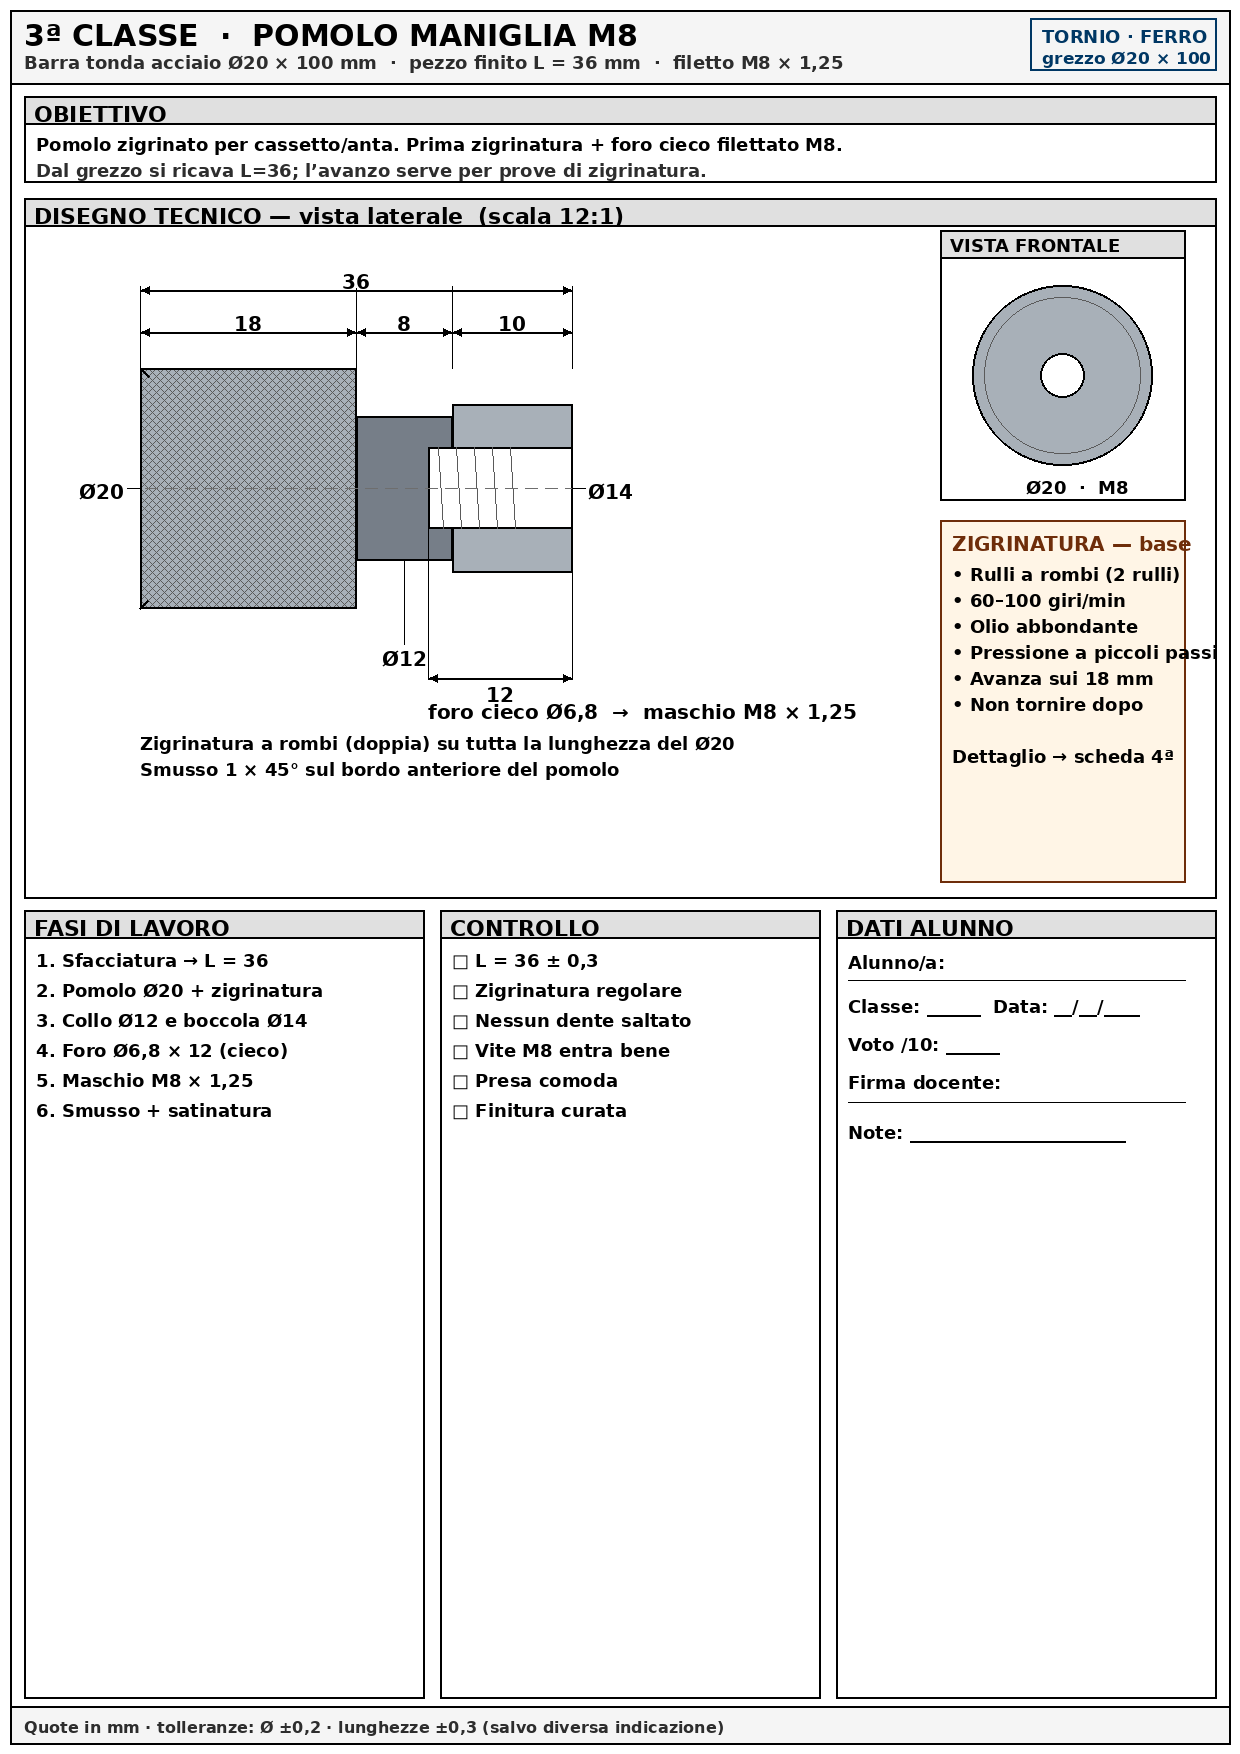
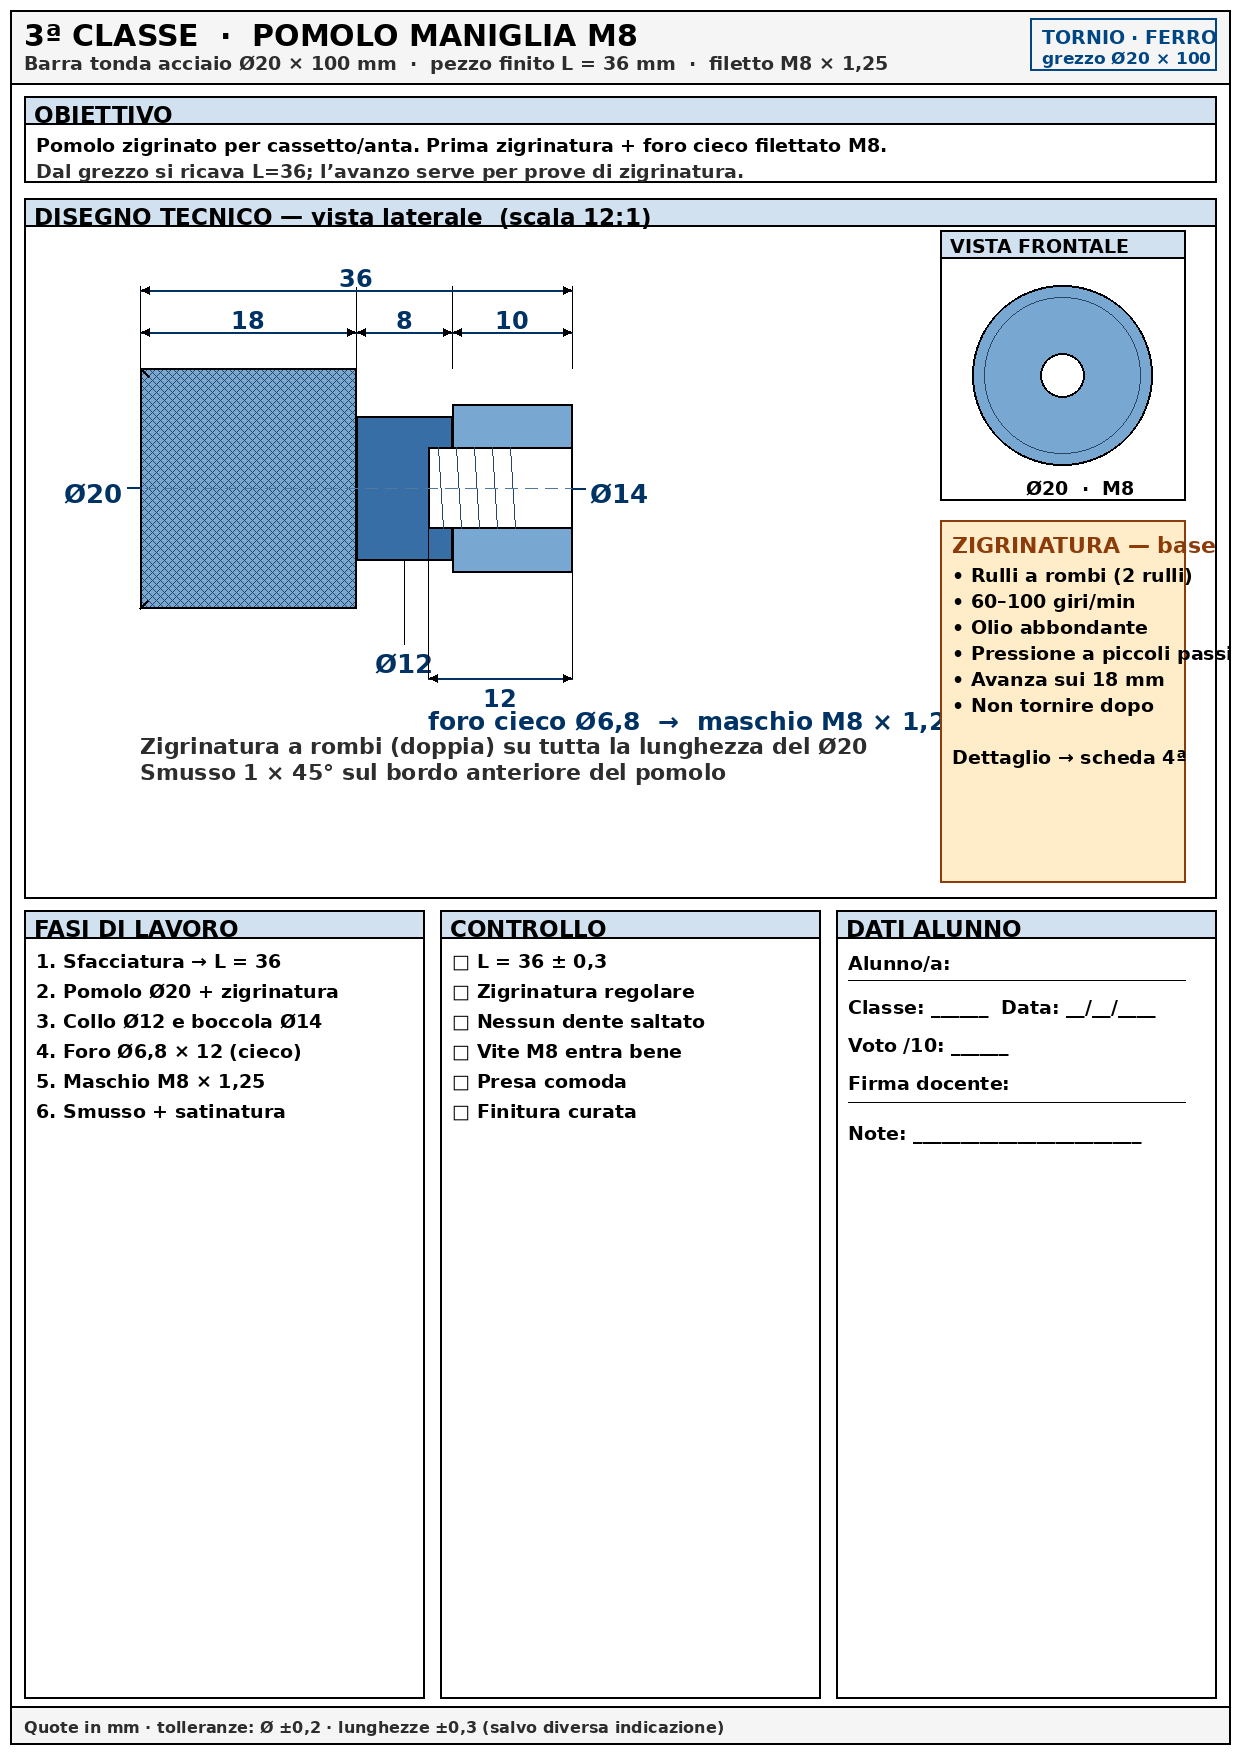
Schede ferro a colori, quote più grandi, dettaglio gancio rifatto.
Capsula + uncino sotto il bordo; pezzi in azzurro/arancio; diciture Ø
e lunghezze con font maggiorato.

diff --git a/progetti-ferro-gallery/generate_ferro.py b/progetti-ferro-gallery/generate_ferro.py
@@ -14,15 +14,21 @@ os.makedirs(GAL, exist_ok=True)
 W, H = 1240, 1754
 BLACK = (0, 0, 0)
 GRAY = (45, 45, 45)
-LIGHT = (224, 224, 224)
-STEEL = (168, 176, 184)
-STEEL_D = (118, 126, 136)
-ACCENT = (0, 55, 100)
+LIGHT = (210, 225, 240)
+STEEL = (120, 168, 210)       # azzurro metallo
+STEEL_D = (55, 110, 165)      # blu più scuro (gradini)
+STEEL_L = (180, 210, 235)     # azzurro chiaro
+ACCENT = (0, 70, 130)
 WHITE = (255, 255, 255)
-SOFT = (90, 90, 90)
-CL = (110, 110, 110)
-WARN_BG = (255, 245, 230)
-WARN = (110, 45, 10)
+SOFT = (40, 70, 100)
+CL = (80, 120, 160)
+WARN_BG = (255, 236, 200)
+WARN = (140, 60, 10)
+ORANGE = (220, 120, 40)
+CAP_GOLD = (210, 170, 60)
+CAP_RED = (190, 55, 50)
+GLASS = (150, 200, 220)
+DIM_COL = (0, 50, 100)        # quote blu scuro
 FOOT = H - 48
 
 
@@ -47,14 +53,16 @@ def font_b(size):
 
 
 F11 = font_b(17)
-F12 = font_b(18)
-F13 = font_b(20)
-F14 = font_b(22)
-F15 = font_b(23)
-F18 = font_b(26)
+F12 = font_b(19)
+F13 = font_b(22)   # diciture quote — più grandi
+F14 = font_b(23)
+F15 = font_b(25)
+F16 = font_b(26)   # diametri / quote principali
+F18 = font_b(28)
 F22 = font_b(30)
 Fm = font_b(16)
-Fs = font(15)
+Fs = font(16)
+FDIM = font_b(24)  # font quote
 
 
 def new_sheet(classe, titolo, sub):
@@ -94,21 +102,17 @@ def arrow_v(d, x, y, up=True):
 
 
 def dim_h(d, x1, x2, y, label, above=True):
-    """Quota orizzontale con frecce e testo pulito."""
+    """Quota orizzontale con frecce e testo grande."""
     if x2 < x1:
         x1, x2 = x2, x1
-    d.line([x1, y, x2, y], fill=BLACK, width=2)
+    d.line([x1, y, x2, y], fill=DIM_COL, width=2)
     arrow_h(d, x1, y, left=True)
     arrow_h(d, x2, y, left=False)
-    tw = d.textlength(label, font=F13)
+    tw = d.textlength(label, font=FDIM)
     lx = (x1 + x2) / 2 - tw / 2
-    ty = y - 20 if above else y + 5
-    # se troppo stretto, sposta il testo sopra/sotto con linea
-    if tw + 8 > (x2 - x1):
-        lx = (x1 + x2) / 2 - tw / 2
-        ty = y - 22 if above else y + 6
-    d.rectangle([lx - 3, ty - 1, lx + tw + 3, ty + 17], fill=WHITE)
-    d.text((lx, ty), label, fill=BLACK, font=F13)
+    ty = y - 26 if above else y + 6
+    d.rectangle([lx - 4, ty - 2, lx + tw + 4, ty + 22], fill=WHITE)
+    d.text((lx, ty), label, fill=DIM_COL, font=FDIM)
 
 
 def dim_dia_below(d, cx, y_top, y_bot, y_label, label):
@@ -122,20 +126,20 @@ def dim_dia_below(d, cx, y_top, y_bot, y_label, label):
 
 
 def label_dia(d, x, y, text, side="left"):
-    """Dicitura Ø a lato del pezzo (fuori dal profilo), con trattino di richiamo."""
-    tw = d.textlength(text, font=F13)
+    """Dicitura Ø grande a lato del pezzo."""
+    tw = d.textlength(text, font=F16)
     if side == "left":
-        d.line([x, y, x - 14, y], fill=BLACK, width=1)
-        d.rectangle([x - 18 - tw, y - 9, x - 14, y + 9], fill=WHITE)
-        d.text((x - 16 - tw, y - 8), text, fill=BLACK, font=F13)
+        d.line([x, y, x - 16, y], fill=DIM_COL, width=2)
+        d.rectangle([x - 22 - tw, y - 12, x - 14, y + 14], fill=WHITE)
+        d.text((x - 18 - tw, y - 10), text, fill=DIM_COL, font=F16)
     else:
-        d.line([x, y, x + 14, y], fill=BLACK, width=1)
-        d.rectangle([x + 14, y - 9, x + 18 + tw, y + 9], fill=WHITE)
-        d.text((x + 16, y - 8), text, fill=BLACK, font=F13)
+        d.line([x, y, x + 16, y], fill=DIM_COL, width=2)
+        d.rectangle([x + 14, y - 12, x + 22 + tw, y + 14], fill=WHITE)
+        d.text((x + 18, y - 10), text, fill=DIM_COL, font=F16)
 
 
 def label_note(d, x, y, text):
-    d.text((x, y), text, fill=BLACK, font=F12)
+    d.text((x, y), text, fill=GRAY, font=F13)
 
 
 def centerline(d, x1, x2, y):
@@ -181,6 +185,85 @@ def knurl_box(d, x, y, w, h):
         if seg:
             d.line([seg[0], seg[1], seg[2], seg[3]], fill=SOFT, width=1)
     d.rectangle([x, y, x + w, y + h], outline=BLACK, width=2)
+
+
+def draw_hook_detail(d, bx1, by1, bx2, by2):
+    """Sezione: collo + capsula + uncino sotto il labbro (molto chiaro)."""
+    d.rectangle([bx1, by1, bx2, by2], fill=(255, 250, 240), outline=BLACK, width=2)
+    d.rectangle([bx1, by1, bx2, by1 + 32], fill=(255, 210, 150), outline=BLACK, width=2)
+    d.text((bx1 + 10, by1 + 6), "DETTAGLIO GANCIO", fill=WARN, font=F14)
+
+    # —— Bottiglia (collo) centrata ——
+    cx = (bx1 + bx2) / 2 - 20
+    neck_w, neck_top = 56, by1 + 95
+    # collo vetro
+    d.rectangle([cx - neck_w / 2, neck_top + 35, cx + neck_w / 2, by2 - 55], fill=GLASS, outline=(40, 90, 120), width=2)
+    # spalla
+    d.polygon(
+        [
+            (cx - neck_w / 2, neck_top + 35),
+            (cx - neck_w / 2 - 18, by2 - 55),
+            (cx + neck_w / 2 + 18, by2 - 55),
+            (cx + neck_w / 2, neck_top + 35),
+        ],
+        fill=GLASS,
+        outline=(40, 90, 120),
+    )
+
+    # —— Capsula a corona (oro) ——
+    cap_l, cap_r = cx - neck_w / 2 - 22, cx + neck_w / 2 + 22
+    cap_top = neck_top
+    # cima
+    d.ellipse([cap_l + 6, cap_top - 14, cap_r - 6, cap_top + 18], fill=CAP_GOLD, outline=BLACK, width=2)
+    # cilindro
+    d.rectangle([cap_l, cap_top + 4, cap_r, cap_top + 38], fill=CAP_GOLD, outline=BLACK, width=2)
+    # labbro ripiegato DX (dove entra l’uncino)
+    lip = [
+        (cap_r, cap_top + 38),
+        (cap_r + 4, cap_top + 38),
+        (cap_r - 2, cap_top + 54),
+        (cap_r - 16, cap_top + 54),
+        (cap_r - 16, cap_top + 38),
+    ]
+    d.polygon(lip, fill=(180, 140, 40), outline=BLACK)
+    # labbro SX
+    d.polygon(
+        [
+            (cap_l, cap_top + 38),
+            (cap_l - 4, cap_top + 38),
+            (cap_l + 2, cap_top + 54),
+            (cap_l + 16, cap_top + 54),
+            (cap_l + 16, cap_top + 38),
+        ],
+        fill=(180, 140, 40),
+        outline=BLACK,
+    )
+    # dentelli
+    for i in range(7):
+        xx = cap_l + 10 + i * ((cap_r - cap_l - 20) / 6)
+        d.line([xx, cap_top + 4, xx + 4, cap_top - 6], fill=BLACK, width=2)
+
+    # —— Uncino (arancio) che entra SOTTO il labbro destro ——
+    hook = [
+        (cap_r + 8, cap_top + 22),
+        (cap_r + 70, cap_top + 28),
+        (cap_r + 72, cap_top + 48),
+        (cap_r - 8, cap_top + 50),   # punta sotto il labbro
+        (cap_r - 8, cap_top + 44),
+        (cap_r + 50, cap_top + 42),
+        (cap_r + 48, cap_top + 34),
+        (cap_r + 10, cap_top + 30),
+    ]
+    d.polygon(hook, fill=ORANGE, outline=BLACK)
+    # freccia verso il punto di presa
+    d.line([cap_r + 30, cap_top + 70, cap_r - 2, cap_top + 52], fill=CAP_RED, width=3)
+    d.polygon(
+        [(cap_r - 2, cap_top + 52), (cap_r + 10, cap_top + 58), (cap_r + 6, cap_top + 48)],
+        fill=CAP_RED,
+    )
+
+    d.text((bx1 + 12, by2 - 48), "1. uncino SOTTO il bordo", fill=ORANGE, font=F13)
+    d.text((bx1 + 12, by2 - 24), "2. leva sulla capsula → apre", fill=CAP_RED, font=F13)
 
 
 def ext_tick(d, x, y1, y2):
@@ -240,13 +323,16 @@ def make_2a():
     d.line([hx, mid - hole_r - 6, hx, mid + hole_r + 6], fill=CL, width=1)
 
     x2 = x1 + L_testa * sc
+    # Gancio: profilo a uncino (non semplice punta) — da limare
     tip = [
-        (x2, mid - 3 * sc),
+        (x2, mid - D_testa * sc / 2 + 4),
+        (x2 + L_gancio * sc * 0.55, mid - 2 * sc),
         (x2 + L_gancio * sc, mid + 1 * sc),
-        (x2 + 4 * sc, mid + 5 * sc),
+        (x2 + L_gancio * sc * 0.7, mid + 4 * sc),
+        (x2 + 3 * sc, mid + 5.5 * sc),
         (x2, mid + D_testa * sc / 2),
     ]
-    d.polygon(tip, fill=STEEL_D, outline=BLACK)
+    d.polygon(tip, fill=ORANGE, outline=BLACK)
     # smussi
     d.line([x0, mid - D_corpo * sc / 2, x0 + 6, mid - D_corpo * sc / 2 + 6], fill=BLACK, width=2)
     d.line([x0, mid + D_corpo * sc / 2, x0 + 6, mid + D_corpo * sc / 2 - 6], fill=BLACK, width=2)
@@ -255,8 +341,8 @@ def make_2a():
     centerline(d, x0 - 40, end_x + 50, mid)
 
     # Quote lunghezze (sopra, due livelli)
-    q1 = mid - D_testa * sc / 2 - 40
-    q0 = q1 - 42
+    q1 = mid - D_testa * sc / 2 - 48
+    q0 = q1 - 48
     for xx in (x0, x1, x2, end_x):
         ext_tick(d, xx, mid - D_testa * sc / 2, q0 - 4)
     dim_h(d, x0, x1, q1, "50")
@@ -269,25 +355,17 @@ def make_2a():
     label_dia(d, end_x, mid, "Ø18", side="right")
 
     # Foro
-    d.line([hx, mid + hole_r, hx, mid + D_testa * sc / 2 + 28], fill=BLACK, width=1)
-    d.text((hx + 6, mid + D_testa * sc / 2 + 18), "Ø6 passante", fill=BLACK, font=F13)
+    d.line([hx, mid + hole_r, hx, mid + D_testa * sc / 2 + 32], fill=DIM_COL, width=2)
+    d.text((hx + 8, mid + D_testa * sc / 2 + 20), "Ø6 passante", fill=DIM_COL, font=F16)
 
     # Note
-    ny = mid + D_testa * sc / 2 + 70
+    ny = mid + D_testa * sc / 2 + 78
     label_note(d, x0, ny, "Smusso 1 × 45° alle estremità del corpo")
-    label_note(d, x0, ny + 28, "Gancio: limare dopo la tornitura (profilo sotto la capsula)")
-    label_note(d, x0, ny + 56, "Materiale: acciaio S235 oppure C40")
+    label_note(d, x0, ny + 30, "Gancio (arancio): limare dopo la tornitura — entra sotto la capsula")
+    label_note(d, x0, ny + 60, "Materiale: acciaio S235 oppure C40")
 
-    # Dettaglio gancio
-    bx1, by1, bx2, by2 = 920, 220, 1185, 430
-    d.rectangle([bx1, by1, bx2, by2], outline=BLACK, width=2)
-    d.rectangle([bx1, by1, bx2, by1 + 28], fill=LIGHT, outline=BLACK, width=2)
-    d.text((bx1 + 10, by1 + 5), "DETTAGLIO GANCIO", fill=BLACK, font=F12)
-    gx, gy = 980, 290
-    d.rectangle([gx, gy, gx + 100, gy + 60], fill=STEEL, outline=BLACK, width=2)
-    d.arc([gx + 55, gy + 25, gx + 145, gy + 110], 200, 40, fill=BLACK, width=3)
-    d.text((bx1 + 14, by2 - 50), "uncino sotto il", fill=GRAY, font=Fs)
-    d.text((bx1 + 14, by2 - 32), "bordo della capsula", fill=GRAY, font=Fs)
+    # Dettaglio gancio — schema capsula + uncino (più grande)
+    draw_hook_detail(d, 880, 220, 1190, 560)
 
     # Bottom
     bot = draw_top + draw_h + 12
@@ -394,9 +472,9 @@ def make_3a():
     # Ø12 sotto il collo, con richiamo
     cy12 = mid + D1 * sc / 2 + 36
     d.line([x2 + L2 * sc / 2, mid + D2 * sc / 2, x2 + L2 * sc / 2, cy12], fill=BLACK, width=1)
-    tw = d.textlength("Ø12", font=F13)
-    d.rectangle([x2 + L2 * sc / 2 - tw / 2 - 2, cy12 + 2, x2 + L2 * sc / 2 + tw / 2 + 2, cy12 + 20], fill=WHITE)
-    d.text((x2 + L2 * sc / 2 - tw / 2, cy12 + 3), "Ø12", fill=BLACK, font=F13)
+    tw = d.textlength("Ø12", font=F16)
+    d.rectangle([x2 + L2 * sc / 2 - tw / 2 - 3, cy12 + 2, x2 + L2 * sc / 2 + tw / 2 + 3, cy12 + 26], fill=WHITE)
+    d.text((x2 + L2 * sc / 2 - tw / 2, cy12 + 4), "Ø12", fill=DIM_COL, font=F16)
 
     label_dia(d, end, mid, "Ø14", side="right")
 
@@ -405,7 +483,7 @@ def make_3a():
     ext_tick(d, hx0, mid + hole_d / 2, qf)
     ext_tick(d, end, mid + hole_d / 2, qf)
     dim_h(d, hx0, end, qf, "12", above=False)
-    d.text((hx0, qf + 22), "foro cieco Ø6,8  →  maschio M8 × 1,25", fill=BLACK, font=F13)
+    d.text((hx0, qf + 28), "foro cieco Ø6,8  →  maschio M8 × 1,25", fill=DIM_COL, font=F15)
 
     ny = qf + 55
     label_note(d, ox, ny, "Zigrinatura a rombi (doppia) su tutta la lunghezza del Ø20")
@@ -547,25 +625,25 @@ def make_4a():
     c0 = xs[0][0] + xs[0][1] / 2
     y_d = bot_r + 40
     d.line([c0, bot_r, c0, y_d], fill=BLACK, width=1)
-    tw = d.textlength("Ø18", font=F13)
-    d.rectangle([c0 - tw / 2 - 2, y_d + 2, c0 + tw / 2 + 2, y_d + 20], fill=WHITE)
-    d.text((c0 - tw / 2, y_d + 3), "Ø18", fill=BLACK, font=F13)
+    tw = d.textlength("Ø18", font=F16)
+    d.rectangle([c0 - tw / 2 - 3, y_d + 2, c0 + tw / 2 + 3, y_d + 26], fill=WHITE)
+    d.text((c0 - tw / 2, y_d + 4), "Ø18", fill=DIM_COL, font=F16)
 
-    # Ø10 sotto gola (spostato a sinistra rispetto al centro gola se serve)
+    # Ø10 sotto gola
     c1 = xs[1][0] + xs[1][1] / 2
-    y_d1 = bot_r + 70
-    d.line([c1, mid + 10 * sc / 2, c1, y_d1], fill=BLACK, width=1)
-    tw = d.textlength("Ø10", font=F13)
-    d.rectangle([c1 - tw / 2 - 2, y_d1 + 2, c1 + tw / 2 + 2, y_d1 + 20], fill=WHITE)
-    d.text((c1 - tw / 2, y_d1 + 3), "Ø10", fill=BLACK, font=F13)
+    y_d1 = bot_r + 75
+    d.line([c1, mid + 10 * sc / 2, c1, y_d1], fill=DIM_COL, width=2)
+    tw = d.textlength("Ø10", font=F16)
+    d.rectangle([c1 - tw / 2 - 3, y_d1 + 2, c1 + tw / 2 + 3, y_d1 + 26], fill=WHITE)
+    d.text((c1 - tw / 2, y_d1 + 4), "Ø10", fill=DIM_COL, font=F16)
 
     # Ø12 sotto collo
     c2 = xs[2][0] + xs[2][1] / 2
     y_d2 = bot_r + 40
-    d.line([c2, mid + 12 * sc / 2, c2, y_d2], fill=BLACK, width=1)
-    tw = d.textlength("Ø12", font=F13)
-    d.rectangle([c2 - tw / 2 - 2, y_d2 + 2, c2 + tw / 2 + 2, y_d2 + 20], fill=WHITE)
-    d.text((c2 - tw / 2, y_d2 + 3), "Ø12", fill=BLACK, font=F13)
+    d.line([c2, mid + 12 * sc / 2, c2, y_d2], fill=DIM_COL, width=2)
+    tw = d.textlength("Ø12", font=F16)
+    d.rectangle([c2 - tw / 2 - 3, y_d2 + 2, c2 + tw / 2 + 3, y_d2 + 26], fill=WHITE)
+    d.text((c2 - tw / 2, y_d2 + 4), "Ø12", fill=DIM_COL, font=F16)
 
     # Ø8 a destra punta
     label_dia(d, end_x, mid, "Ø8", side="right")
@@ -688,9 +766,9 @@ def make_5a():
     c16 = x2 + 4 * sc
     y16 = mid + 10 * sc + 40
     d.line([c16, mid + 8 * sc, c16, y16], fill=BLACK, width=1)
-    tw = d.textlength("Ø16", font=F13)
-    d.rectangle([c16 - tw / 2 - 2, y16 + 2, c16 + tw / 2 + 2, y16 + 20], fill=WHITE)
-    d.text((c16 - tw / 2, y16 + 3), "Ø16", fill=BLACK, font=F13)
+    tw = d.textlength("Ø16", font=F16)
+    d.rectangle([c16 - tw / 2 - 3, y16 + 2, c16 + tw / 2 + 3, y16 + 26], fill=WHITE)
+    d.text((c16 - tw / 2, y16 + 4), "Ø16", fill=DIM_COL, font=F16)
 
     # M10 a destra
     label_dia(d, tip, mid, "M10×1,5", side="right")
